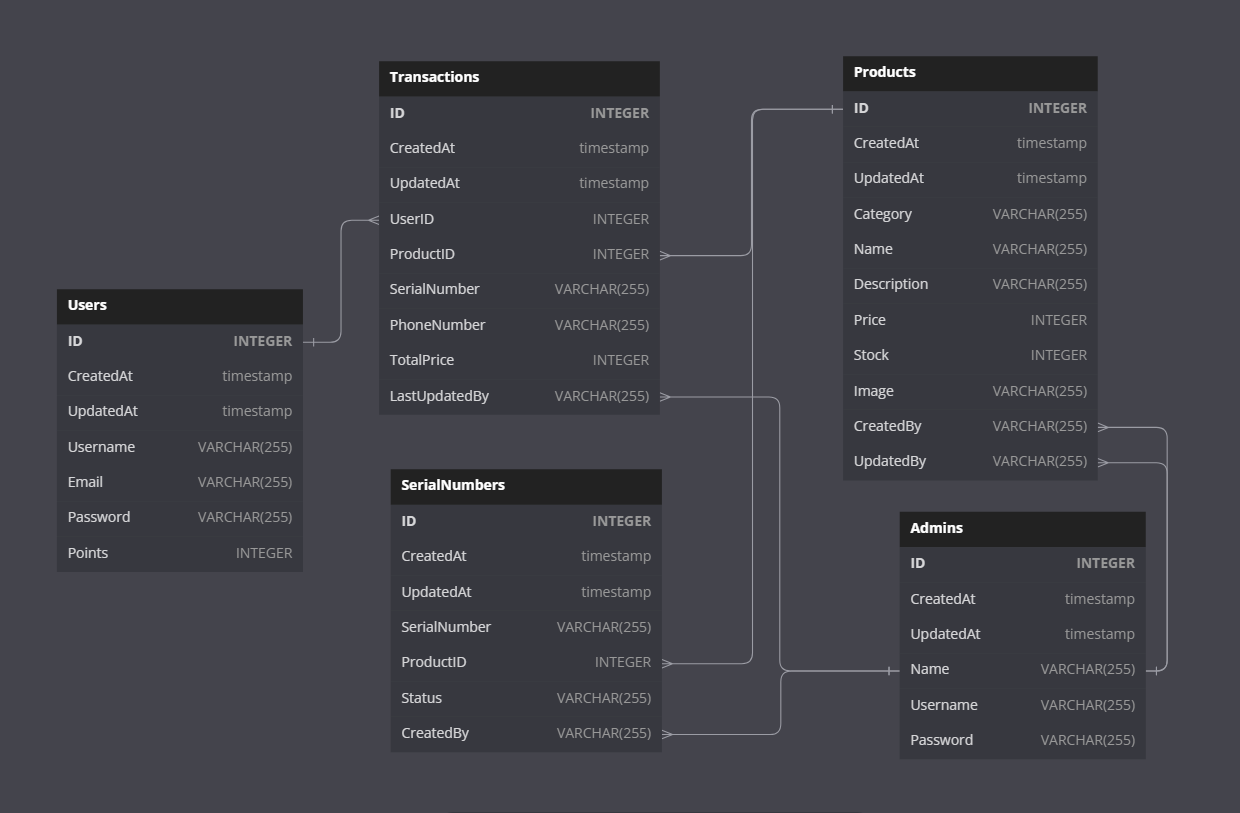
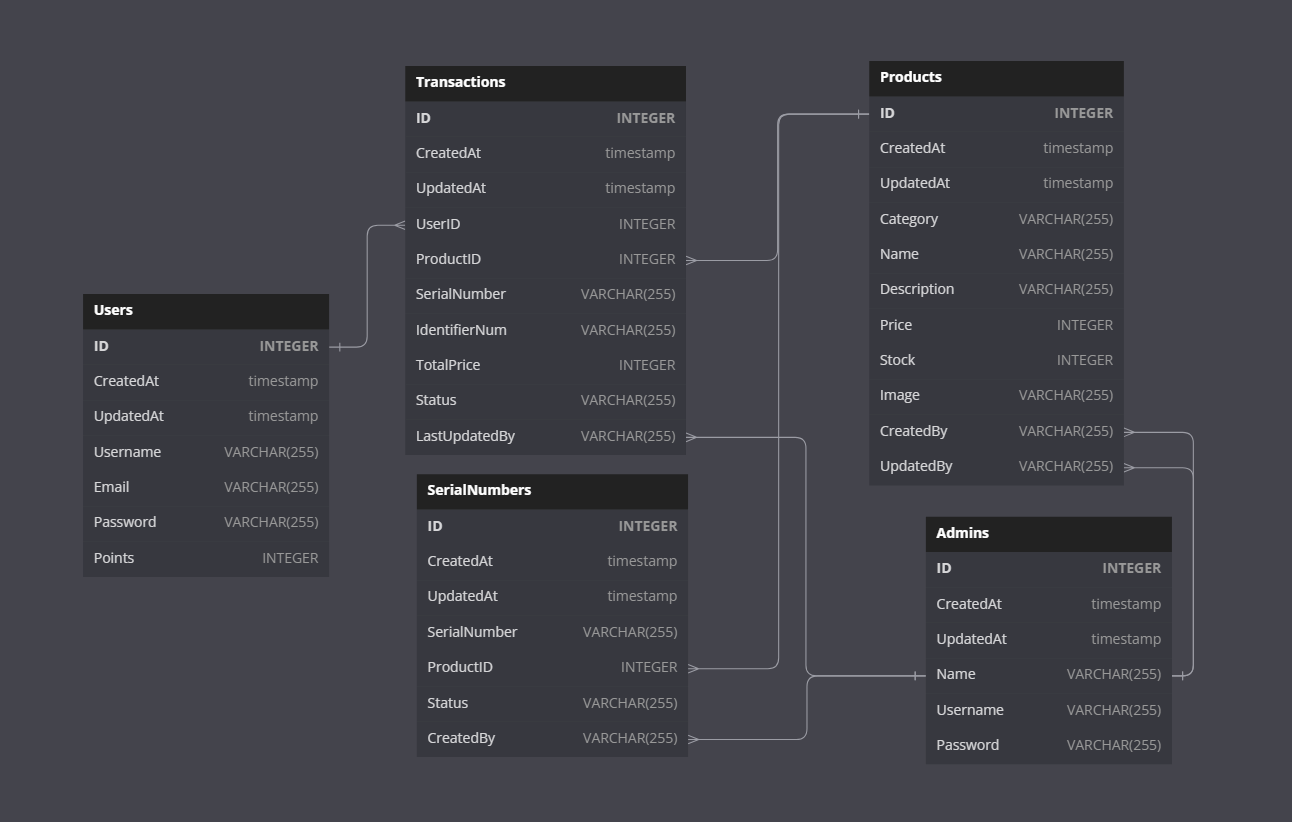
adapt require team

diff --git a/entity/model.go b/entity/model.go
@@ -36,8 +36,9 @@ type Transactions struct {
 	UserID        uint   `gorm:"type:int;not null" json:"user_id"`
 	ProductID     uint   `gorm:"type:int;not null" json:"product_id"`
 	SerialNumber  string `gorm:"type:varchar(100);not null" json:"serial_number"`
-	PhoneNumber   string `gorm:"type:varchar(20);not null" json:"phone_number"`
+	IdentifierNum string `gorm:"type:varchar(100);not null" json:"identifier_num"`
 	TotalPrice    int    `gorm:"type:int;not null" json:"total_price"`
+	Status        string `gorm:"type:varchar(20);not null" json:"status"`
 	LastUpdatedBy string `gorm:"type:varchar(20);not null" json:"last_updated_by"`
 }
 
